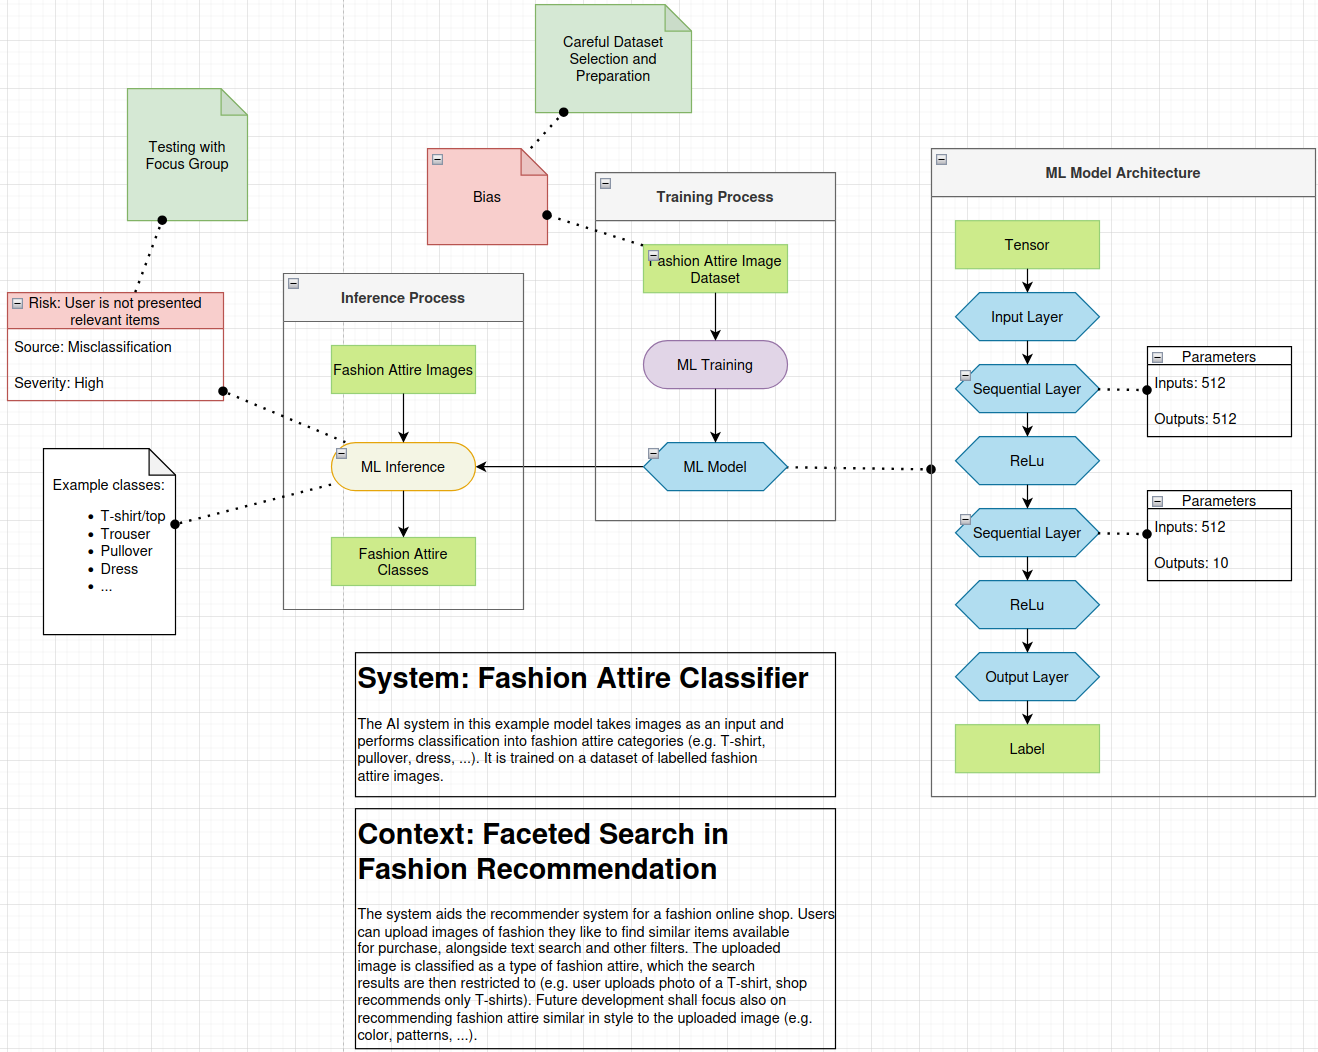
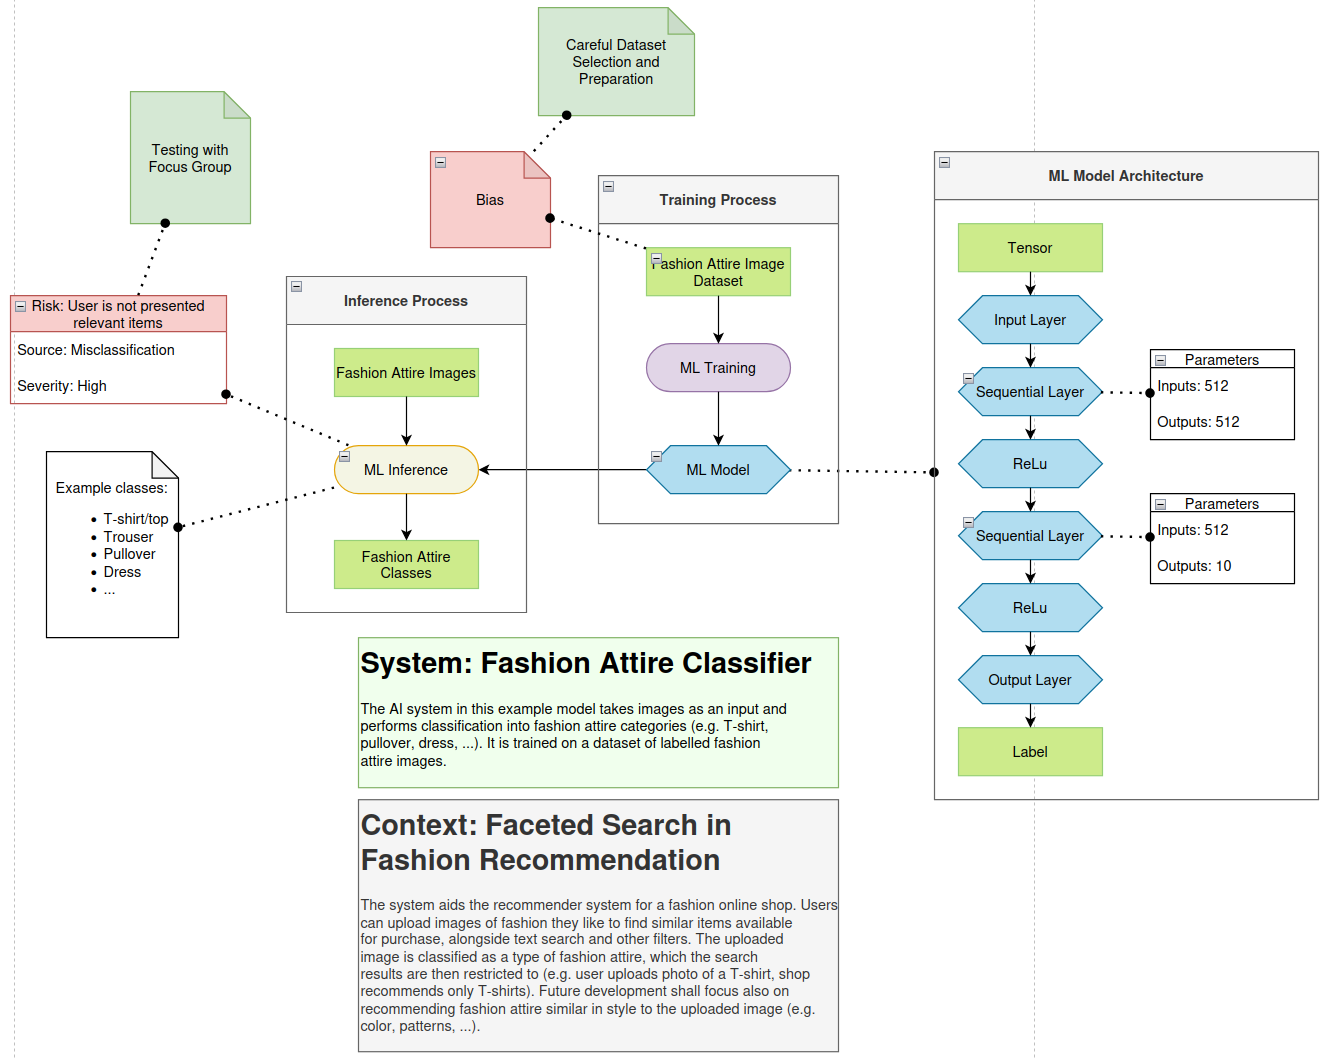
update BEAM notation: different colors for system and context description elements

diff --git a/beam_technical_documentation_v3.md b/beam_technical_documentation_v3.md
@@ -24,15 +24,14 @@ To complete the tasks, the system will be tested in <span style="colour:orange">
 
 1. [TLDR](#tldr)
 2. [Introduction](#intro)
-3. [draw.io - Howto](#howto)
-4. [Overview - Boxology V2](#overv_box)
-5. [New Elements introduced](#new_elem)
-6. [Properties Used](#props_used)
-7. [Attaching Details to Elements](#attach_details)
-8. [Diagram Requirements](#dia_req)
+3. [draw.io - How-To](#howto)
+4. [Overview - BEAM Notation v3](#overv_box)
+5. [Properties Used](#props_used)
+6. [Attaching Details to Elements](#attach_details)
+7. [Diagram Requirements](#requirements)
     1. [Mandatory Requirements](#mand_req)
     2. [Requirements for Custom Elements](#cust_req)
-9. [References](#refs)
+8. [References](#references)
 
 ## TL;DR <a name="tldr"></a>
 
@@ -113,7 +112,7 @@ For representing simple AI systems, the properties of its elements might not eve
 
 **----------------------------------- End of TL;DR -----------------------------------**
 
-## Introduction
+## Introduction<a name="intro"></a>
 
 As briefly illustrated in the abstract, the extension posed by BEAM aims to address unmet needs identified in the literature and by a real use case. 
 As for the choice of draw.io, several factors were considered: intuitive use, being a free and open-source diagramming tool, being well-known and its provision of required features such as the ability to extend shapes, load custom shapes, allow the manipulation of existing shapes, as well as the ability to save and load pre-defined shapes as templates. An additional key requirement is the ability to save and load the diagram in a machine-readable format for further processing.
@@ -475,9 +474,9 @@ In some cases, assigning custom properties may still not be enough to display so
 
 One detail to note about this attachment strategy is validation. When the information is extracted in the background, only the connection between the workflow element and its attached element(s) is checked. However, any information attached to elements already attached to the workflow element is not checked for validity. The rationale behind this decision is not to limit the options of the diagram creator. For example, the attachment of the neural network structure can be shown in its own sub-process. However, in order not to confuse the connections used in that sub-process, a new type of connector would have to be implemented. It is probably almost impossible to cover every conceivable case. As a result, the design decision was made against full testing. This leaves the disadvantage of not addressing the challenges of standardisation. However, as flexibility has been prioritised, standardisation will unfortunately have to be established by convention of diagram designers.
 
-## Requirements of the Diagram
+## Requirements of the Diagram <a name="requirements"></a>
 
-### Mandatory Requirements
+### Mandatory Requirements <a name="mand_req"></a>
 
 #### Legend
 
